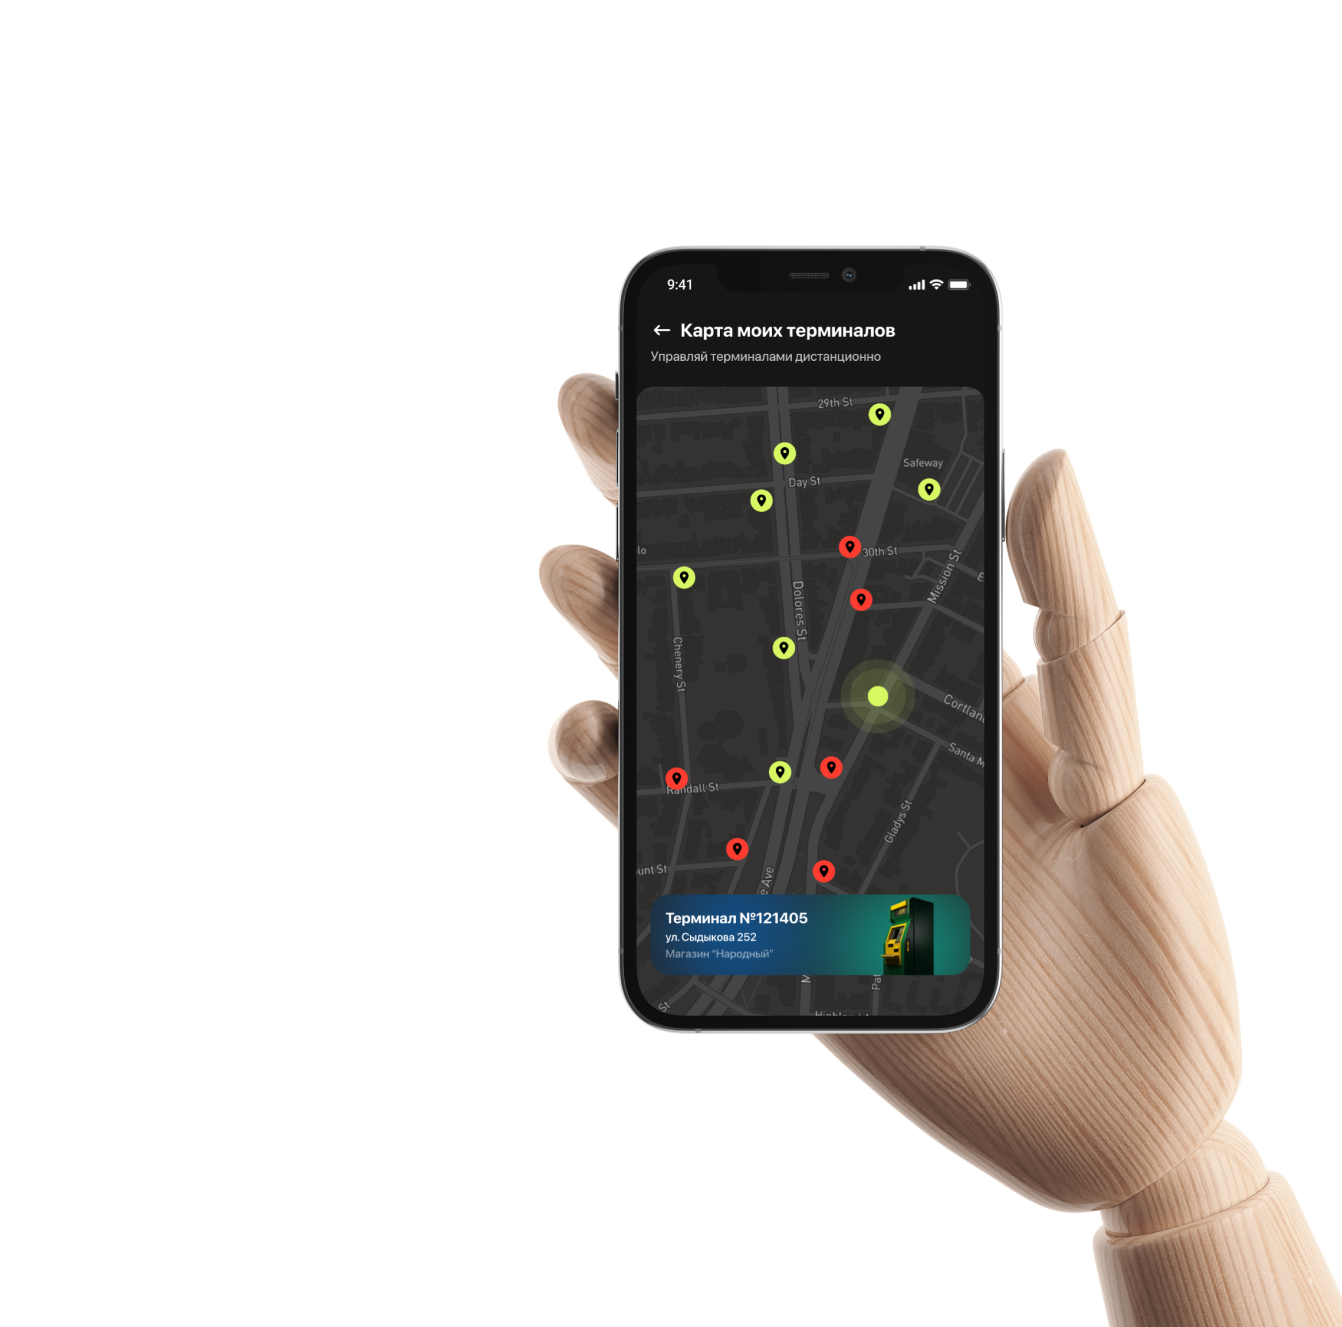
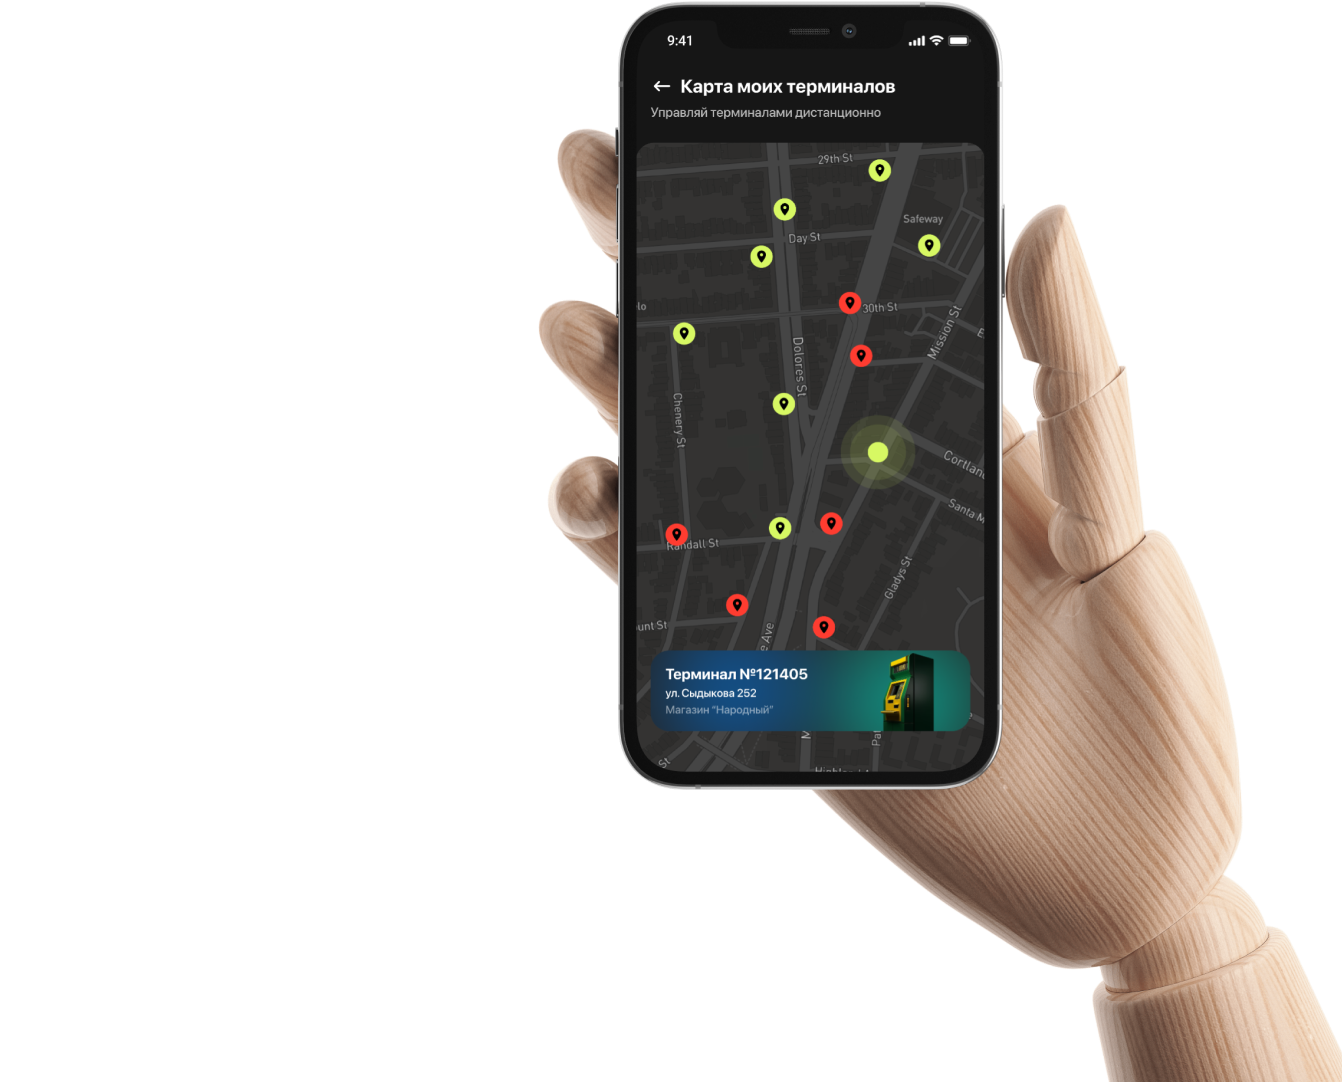
refactor: cut empty space from phone image to remove negative margin in CSS

Changed region(s): [[0.3972, 0.0, 1.0, 0.976], [0.4888, 0.366, 0.5194, 0.3965]]

diff --git a/src/components/website/phone/phone.css b/src/components/website/phone/phone.css
@@ -17,10 +17,9 @@
 }
 
 .phone-background {
-    margin-top: -240px;
     min-width: 1342px;
     width: 100%;
-    height: 1327px;
+    height: 1082px;
     background-image: url(../../../assets/images/Phone.png);
     background-size: contain;
     background-position: right;
@@ -28,11 +27,12 @@
 }
 
 .phone-text-blocks {
+    padding-top: 110px;
     padding-left: 120px;
     display: flex;
     flex-direction: column;
-    justify-content: center;
-    gap: 120px;
+    justify-content: flex-start;
+    gap: 100px;
 }
 
 .phone-header-and-description {
